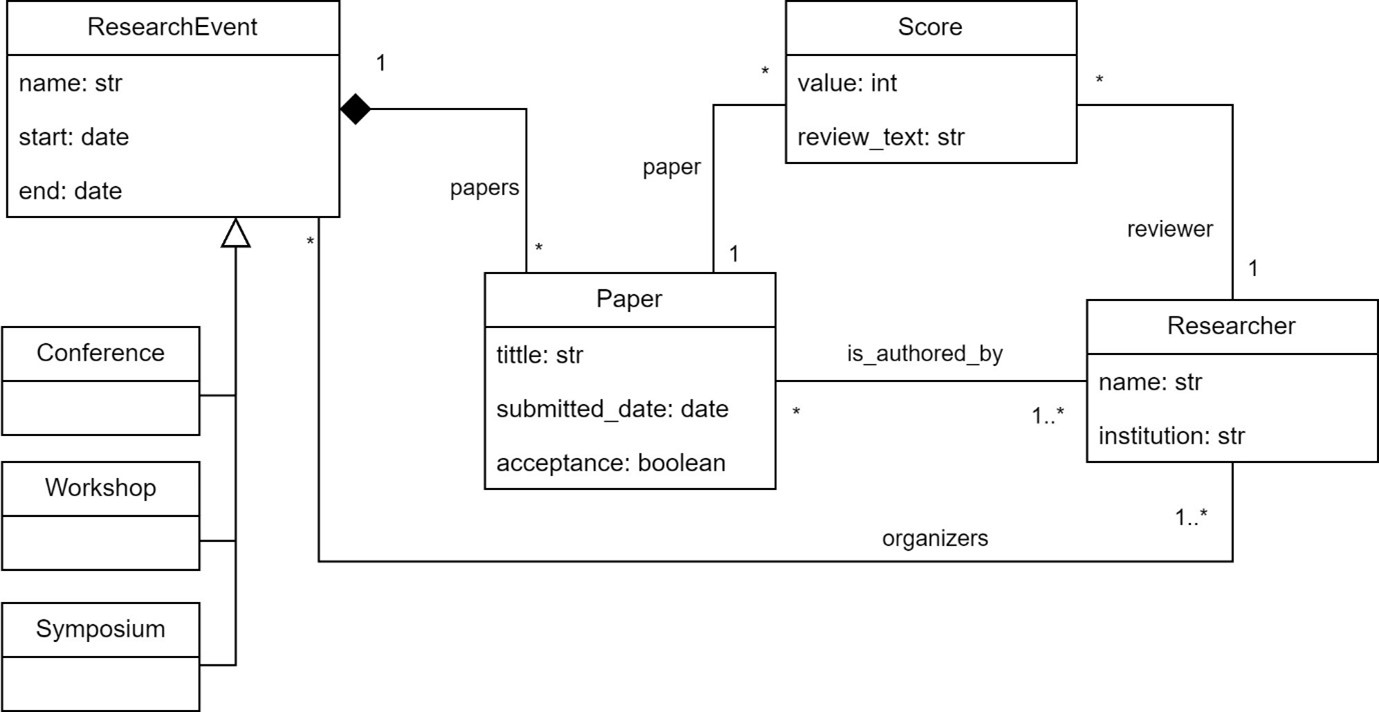
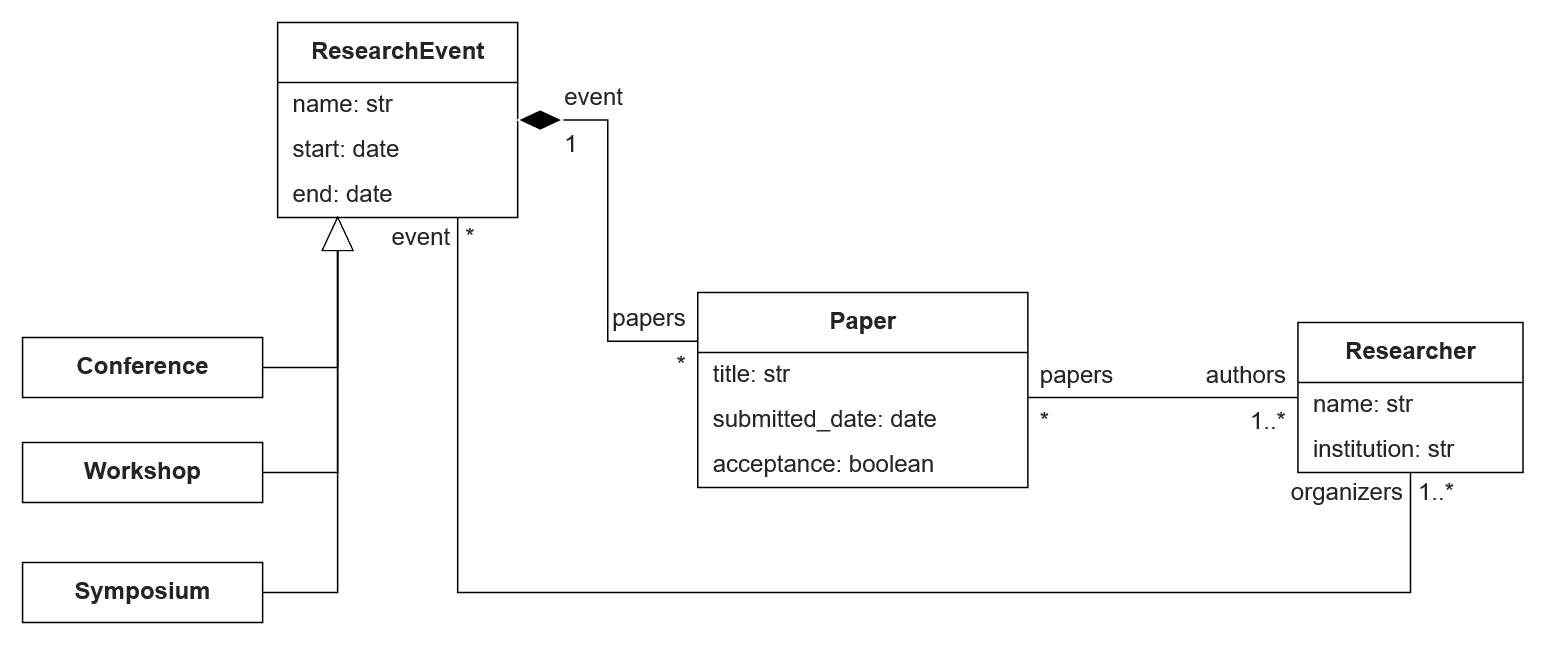
Update Lab 1 - beser basics

diff --git a/lab1_besser_basics/models/domain_model.py b/lab1_besser_basics/models/domain_model.py
@@ -1,61 +1,74 @@
-from besser.BUML.metamodel.structural import NamedElement, DomainModel, Type, Class, \
-        Property, PrimitiveDataType, Multiplicity, Association, BinaryAssociation, Generalization, \
-        GeneralizationSet, AssociationClass, StringType, DateType, BooleanType, IntegerType
+"""
+This module defines a domain model for academic research using the BUML metamodel. 
+It includes classes, attributes, relationships, and generalizations to represent 
+various entities and their interactions in the context of academic research.
+"""
+from besser.BUML.metamodel.structural import (
+    Class, Property, BinaryAssociation, Generalization,
+    DomainModel, Multiplicity, StringType, BooleanType,
+    DateType
+)
 
-# Paper class definition
-tittle: Property = Property(name="tittle", type=StringType)
-submitted_date: Property = Property(name="submitted_date", type=DateType)
-acceptance: Property = Property(name="acceptance", type=BooleanType)
-paper: Class = Class(name="Paper", attributes={tittle, submitted_date, acceptance})
+# Classes
+ResearchEvent = Class(name="ResearchEvent")
+Paper = Class(name="Paper")
+Conference = Class(name="Conference")
+Workshop = Class(name="Workshop")
+Symposium = Class(name="Symposium")
+Researcher = Class(name="Researcher")
 
-# Researcher class definition
-name: Property = Property(name="name", type=StringType)
-institution: Property = Property(name="institution", type=StringType)
-researcher: Class = Class(name="Researcher", attributes={name, institution})
+# ResearchEvent class attributes and methods
+ResearchEvent_name: Property = Property(name="name", type=StringType)
+ResearchEvent_start: Property = Property(name="start", type=DateType)
+ResearchEvent_end: Property = Property(name="end", type=DateType)
+ResearchEvent.attributes={ResearchEvent_end, ResearchEvent_start, ResearchEvent_name}
 
-# ResearchEvent class definition
-event_name: Property = Property(name="name", type=StringType)
-start: Property = Property(name="start", type=DateType)
-end: Property = Property(name="end", type=DateType)
-research_event: Class = Class(name="ResearchEvent", attributes={event_name, start, end})
+# Paper class attributes and methods
+Paper_title: Property = Property(name="title", type=StringType)
+Paper_submitted_date: Property = Property(name="submitted_date", type=DateType)
+Paper_acceptance: Property = Property(name="acceptance", type=BooleanType)
+Paper.attributes={Paper_acceptance, Paper_submitted_date, Paper_title}
 
-# Conference class definition
-conference: Class = Class(name="Conference", attributes=set())
-
-# Workshop class definition
-workshop: Class = Class(name="Workshop", attributes=set())
-
-# Symposium class definition
-symposium: Class = Class(name="Symposium", attributes=set())
+# Researcher class attributes and methods
+Researcher_name: Property = Property(name="name", type=StringType)
+Researcher_institution: Property = Property(name="institution", type=StringType)
+Researcher.attributes={Researcher_name, Researcher_institution}
 
 # Relationships
-is_authored_by: BinaryAssociation = BinaryAssociation(name="is_authored_by", ends={
-        Property(name="is_authored_by", type=paper, multiplicity=Multiplicity(0, "*")),
-        Property(name="is_authored_by", type=researcher, multiplicity=Multiplicity(1, "*"))})
-organizers: BinaryAssociation = BinaryAssociation(name="organizers", ends={
-        Property(name="organizers", type=research_event, multiplicity=Multiplicity(0, "*")),
-        Property(name="organizers", type=researcher, multiplicity=Multiplicity(1, "*"))})
-papers: BinaryAssociation = BinaryAssociation(name="papers", ends={
-        Property(name="papers", type=research_event, multiplicity=Multiplicity(1, 1), is_navigable=False, is_composite=True),
-        Property(name="papers", type=paper, multiplicity=Multiplicity(0, "*"))})
+paper_authors: BinaryAssociation = BinaryAssociation(
+    name="paper_authors",
+    ends={
+        Property(name="paper", type=Paper, multiplicity=Multiplicity(0, "*")),
+        Property(name="authors", type=Researcher, multiplicity=Multiplicity(1, "*"))
+    }
+)
+organizer_list: BinaryAssociation = BinaryAssociation(
+    name="organizer_list",
+    ends={
+        Property(name="event", type=ResearchEvent, multiplicity=Multiplicity(0, "*")),
+        Property(name="organizers", type=Researcher, multiplicity=Multiplicity(1, "*"))
+    }
+)
+paper_list: BinaryAssociation = BinaryAssociation(
+    name="paper_list",
+    ends={
+        Property(name="papers", type=Paper, multiplicity=Multiplicity(0, "*")),
+        Property(name="event", type=ResearchEvent, multiplicity=Multiplicity(1, 1), is_composite=True)
+    }
+)
 
 # Generalizations
-gen_ResearchEvent_Conference: Generalization = Generalization(general=research_event, specific=conference)
-gen_ResearchEvent_Workshop: Generalization = Generalization(general=research_event, specific=workshop)
-gen_ResearchEvent_Symposium: Generalization = Generalization(general=research_event, specific=symposium)
-ResearchEvent_generalization_set: GeneralizationSet = GeneralizationSet(name="ResearchEvent_gen_set",
-                                                                        generalizations={gen_ResearchEvent_Conference, 
-                                                                                        gen_ResearchEvent_Workshop, 
-                                                                                        gen_ResearchEvent_Symposium},
-                                                                        is_disjoint=True, is_complete=True)
-
+gen_Symposium_ResearchEvent = Generalization(general=ResearchEvent, specific=Symposium)
+gen_Conference_ResearchEvent = Generalization(general=ResearchEvent, specific=Conference)
+gen_Workshop_ResearchEvent = Generalization(general=ResearchEvent, specific=Workshop)
 
 # Domain Model
-buml_model: DomainModel = DomainModel(name="Domain Model",
-                                types={paper, researcher, research_event, conference, workshop, symposium},
-                                associations={is_authored_by, organizers, papers},
-                                generalizations={gen_ResearchEvent_Conference, gen_ResearchEvent_Workshop, gen_ResearchEvent_Symposium})
+domain_model = DomainModel(
+    name="Academic_Research",
+    types={ResearchEvent, Paper, Conference, Workshop, Symposium, Researcher},
+    associations={paper_authors, organizer_list, paper_list},
+    generalizations={gen_Symposium_ResearchEvent, gen_Conference_ResearchEvent, gen_Workshop_ResearchEvent}
+)
 
-
-for cls in buml_model.get_classes():
+for cls in domain_model.get_classes():
     print(cls.name)

diff --git a/lab1_besser_basics/README.md b/lab1_besser_basics/README.md
@@ -16,7 +16,7 @@ BESSER is an open-source low-code platform for smart software development. The f
 
 ## 2. Scenario
 
-The following diagram depicts a domain related to academic research, where papers are authored by researchers, evaluated with scores, and presented at various research events. Each *Paper* is associated with one or more *Score*s provided by *Reviewer*s, along with textual reviews. *Researcher*s, affiliated with institutions, can organize *ResearchEvent*s such as *Conference*s, *Workshop*s, or *Symposium*s, each having distinct start and end dates. *Paper*s are presented at these events, forming a one-to-many composition relationship between *ResearchEvent* and *Paper*. Additionally, the diagram showcases inheritance, with specific types of *ResearchEvent*s inheriting attributes and behaviors from the generic *ResearchEvent* class. Overall, it illustrates the interplay between papers, reviewers, researchers, and research events within the academic research domain.
+The following diagram depicts a domain related to academic research, where papers are authored by researchers, and presented at various research events. *Researcher*s, affiliated with institutions, can organize *ResearchEvent*s such as *Conference*s, *Workshop*s, or *Symposium*s, each having distinct start and end dates. *Paper*s are presented at these events, forming a one-to-many composition relationship between *ResearchEvent* and *Paper*. Additionally, the diagram showcases inheritance, with specific types of *ResearchEvent*s inheriting attributes and behaviors from the generic *ResearchEvent* class. Overall, it illustrates the interplay between papers, reviewers, researchers, and research events within the academic research domain.
 
 <div align="center">
   <img src="figs/research_model.png" alt="Research domain model" width="700"/>
@@ -35,9 +35,7 @@ It's time to start modeling with BESSER. To create a model using B-UML (BESSER's
 The first way consists of instantiating directly in Python the classes of the B-UML metamodel. For this, you must write the code in Python defining the domain model. For example, the following code is to define the *Paper* class with its attributes, where the classes **Class*, and *Property* are instantiated from the B-UML metamodel.
 
 ```python
-from besser.BUML.metamodel.structural import NamedElement, DomainModel, Type, Class, \
-        Property, PrimitiveDataType, Multiplicity, Association, BinaryAssociation, Generalization, \
-        GeneralizationSet, AssociationClass, StringType, DateType, BooleanType, IntegerType
+from besser.BUML.metamodel.structural import Class, Property, StringType, DateType, BooleanType
 
 # Paper class definition
 tittle: Property = Property(name="tittle", type=StringType)
@@ -46,7 +44,7 @@ acceptance: Property = Property(name="acceptance", type=BooleanType)
 paper: Class = Class(name="Paper", attributes={tittle, submitted_date, acceptance})
 ```
 
-You can find the code for the definition of [the domain model here](models/domain_model.py), excluding the *Score* class. Run this code using Python and you should get in console the names of the classes of your model.
+You can find the code for the definition of [the domain model here](models/domain_model.py). Run this code using Python and you should get in console the names of the classes of your model.
 
 ```bash
 $ python domain_model.py
@@ -59,8 +57,13 @@ Workshop
 ```
 > ### **Exercise:**
 >
-> - Modify the code of your model by adding the definition of the *Score* class and the relationships with *Paper* and *Research* classes.
-> - Print not only the name of each class but also the name and type of their attributes.
+> Modify the code of your model according to the following description:
+> - A new class, *Score*, must be added to represent the score that a *Paper* receives after being reviewed by a *Researcher*.
+> - Each *Paper* can have multiple *Score*s, and each *Score* is provided by a single reviewer.
+> - The *Score* class must have at least two attributes: one for the score value, and one for comments or suggestions from the reviewer.
+> - Modify the code of your model by adding the necesary model elements (classes, attributes, associations, etc.)
+> - Verify that the model was correclty updated, for example printing in console the names of the classes and their attributes.
+
 
 ### 4.2 Create a B-UML model using the Plantuml notation
 
@@ -97,65 +100,89 @@ from besser.utilities import image_to_buml
 buml_model: DomainModel = image_to_buml(image_path="model.png", openai_token="****")
 ```
 
+### 4.4 Creating a B-UML model using the Web Modeling Editor
+
+One of the most popular ways to model in BESSER is by using the graphical editor. You cab access and explore the editor at the following link: [https://editor.besser-pearl.org/](https://editor.besser-pearl.org/). To familiarize yourself with the editor, refer to the [editor documentation](https://besser.readthedocs.io/en/latest/web_editor.html)
+
+With the Modeling Editor, you can create a new class diagram, start from a template, or import an existing model. Let's import this [model in JSON format](models/domain_model.json) by clicking on *File -> Import -> JSON Import*.
+
+Once imported, you should see the followng model in the editor:
+
+<div align="center">
+  <img src="figs/modeling_editor.png" alt="Modeling Editor" width="700"/>
+</div>
+
+> ### **Exercise:**
+>
+> - Recreate the tasks from the *Exercise* in **Section 4.1**, but this time using the Graphical Editor.
+> - Modify the model to ensure that the value of an *Score* always takes one of the following predifined values: "strong_accept", "accept", "weak_accept", "borderline", "weak_reject", and "reject".
+> - Click on Quality Check to verify that your model is intactically correct.
+> - Export your model by clicking on *File -> Export -> As B-UML* (this model will be used in the next section of this guide).
+
 ## 5. Using the BESSER code generators
 
-Using the BESSER code generators is very easy. All you must do is provide the B-UML model to the generator.
+There are two ways to use them, depending on your needs.
 
-Next, we are going to use some of the BESSER code generators using the B-UML model serialized in section 4.2 of this guide.
+- Using the Modeling Editor (ideal for quick and ease of use): Once your model is complete, click on the **Generate Code** menu and select the desired code generator. The generated code will be immediately available (downloaded) on your local system.
+
+- Implementing Code Generators in Python (ideal for development purposes): This approach is preferred if you are developing or improving a code generator in BESSER.
+
+In the following sections, we will explore the second option, as using the Modeling Editor is straighforward.
 
 ### 5.1 SQL Alchemy code generator
 
 [SQLAlchemy](https://www.sqlalchemy.org/) is a Python SQL toolkit and Object-Relational Mapping (ORM) library that provides a flexible way to work with databases in Python, allowing developers to interact with databases using high-level Python objects.
 
-To use the SQLAlchemy generator, we need to deserialize the domain model that we have previously saved in Section 4.2. You can execute the following code to complete the entire process.
+Open the model (`.py` file) obtained from the *Exercise* in **Section 4.4**. Add the following code to your file to use the code generator.
 
 ```python
-from besser.BUML.metamodel.structural import DomainModel
-from besser.utilities import ModelSerializer
 from besser.generators.sql_alchemy import SQLAlchemyGenerator
 
-# Model deserialization
-serializer: ModelSerializer = ModelSerializer()
-buml_model: DomainModel = serializer.load(model_path="serialized model filename")
-
-# Code generation
-generator: SQLAlchemyGenerator = SQLAlchemyGenerator(model=buml_model)
-generator.generate()
+# SQLAlchemy code generation
+alchemy_generator = SQLAlchemyGenerator(model=domain_model)
+alchemy_generator.generate(dbms="sqlite")
 ```
 
-The `sql_alchemy.py` file with the declarative mapping of the database will be generated in the `<<current_directory>>/output/sql_alchemy.py`
+More information about this generator is available at the [BESSER documentation](https://besser.readthedocs.io/en/latest/generators/alchemy.html).
 
-Next, we are going to create an SQLite database using the generated code. Add the following code at the end of your `sql_alchemy.py` file generated and then run it.
+In this example, the database management system is set to *SQLite*.
+After execute your code using python, the `sql_alchemy.py` file with the declarative mapping of the database will be generated in `<<current_directory>>/output/sql_alchemy.py`
 
-```python
-engine = create_engine("sqlite:///database.db", echo=True)
-Base.metadata.create_all(engine)
-```
+**Creating the Database**
 
-The database should have been created as `database.db`. Explore the tables and relationships to see how the model's concepts are mapped to the database. If you're using VSCode, you can install the [SQLite Viewer plugin](https://marketplace.visualstudio.com/items?itemName=qwtel.sqlite-viewer) to easily visualize the database.
+To create the database, execute the generated code
+
+  python slq_achemy.py
+
+After running the script, the database should be created as `database.db`. Explore the tables and relationships to see how the model's concepts are mapped to the database. If you're using VSCode, you can install the [SQLite Viewer plugin](https://marketplace.visualstudio.com/items?itemName=qwtel.sqlite-viewer) to easily visualize the database.
 
 > ### **Exercise:**
 >
-> Modify the [domain model](figs/research_model.png) by adding two new classes: *Junior* and *Senior*, both of which inherit from the *Researcher* class. Redefine the B-UML model using any of the provided options from Section 4 and use the SQLAlchemy code generator to create the database.
+> Modify the model to reflect two new types of *Researcher*s: *Junior* and *Senior*. Update the model using any of the provided options from Section 4 and use the SQLAlchemy code generator to create the new database.
 
 ### 5.2 Django code generator
 
 [Django](https://www.djangoproject.com/) is a high-level Python web framework that enables development of web applications. The architecture of web applications created with Django follows a Model-View-Template (MVT) architecture. The model layer represents the data and business logic, the view layer consists of functions or classes that handle the application logic, and the templates are HTML files that define the user interface presentation.
 
-BESSER provides this code generator for the model layer of a web application built with Django. To use the Django code generator, execute the following code.
+To generate the Django code, add the following lines to your script.
 
 ```python
-from besser.BUML.metamodel.structural import DomainModel
-from besser.utilities import ModelSerializer
 from besser.generators.django import DjangoGenerator
 
-# Model deserialization
-serializer: ModelSerializer = ModelSerializer()
-buml_model: DomainModel = serializer.load(model_path="serialized model filename")
-
-# Code generation
-generator: DjangoGenerator = DjangoGenerator(model=buml_model)
-generator.generate()
+# Django code generation
+django_generator = DjangoGenerator(model=domain_model,
+                                  project_name="my_django_project",
+                                  app_name="research_app",
+                                  containerization=False)
+django_generator.generate()
 ```
 
-The `models.py` file with the Django models defined will be generated in the `<<current_directory>>/output/models.py` file.
+In addition to the B-UML model, this generator requires the following parameters:
+
+- Project name (e.g., `"my_django_project"`),
+- Application name (e.g., `"research_app"`),
+- Containerization (`True` or `False`, depending on whether you want to deploy your application using containers)
+
+> ### **Exercise:**
+>
+> Check the [Django generator documentation](https://besser.readthedocs.io/en/latest/generators/django.html#) and run the web application, either using containerization or running it directly.
